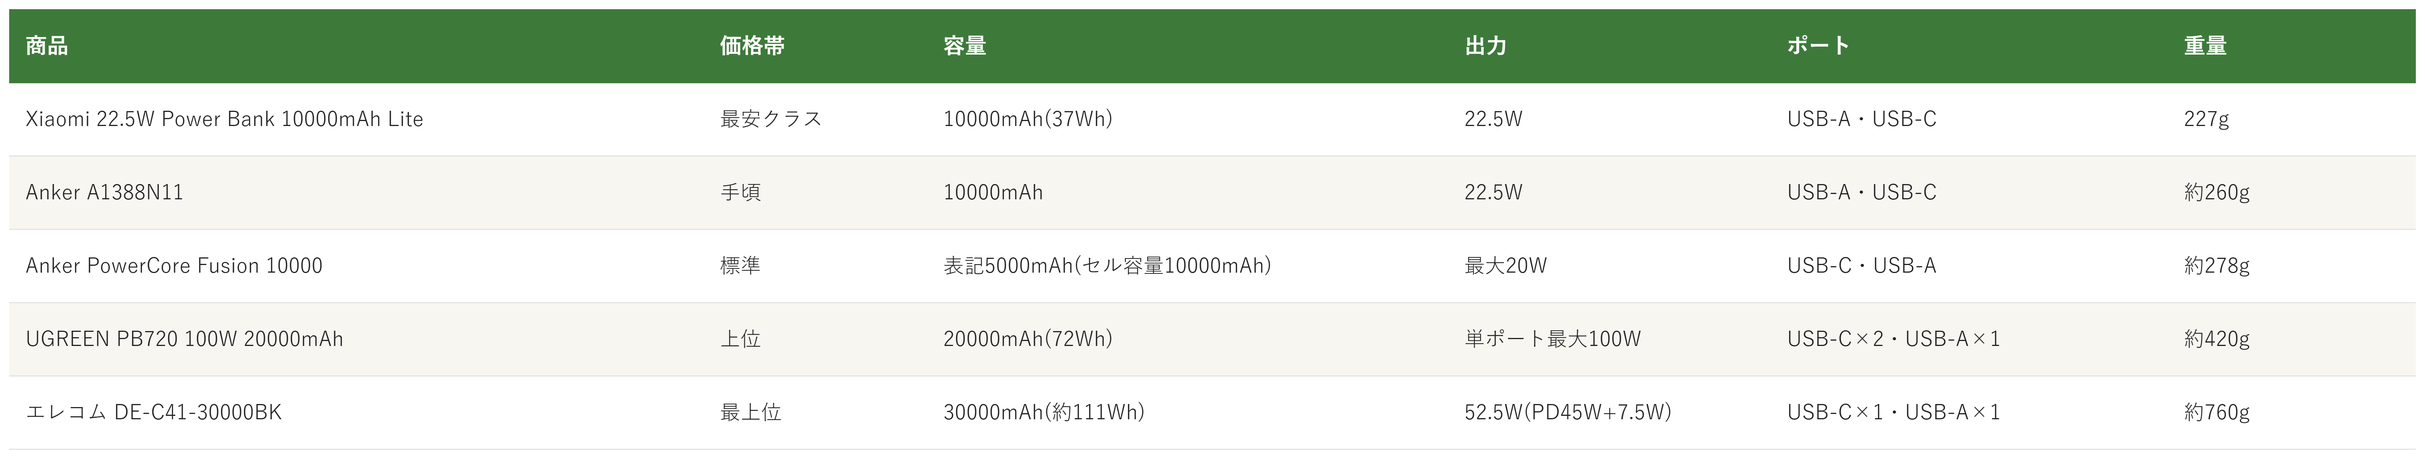
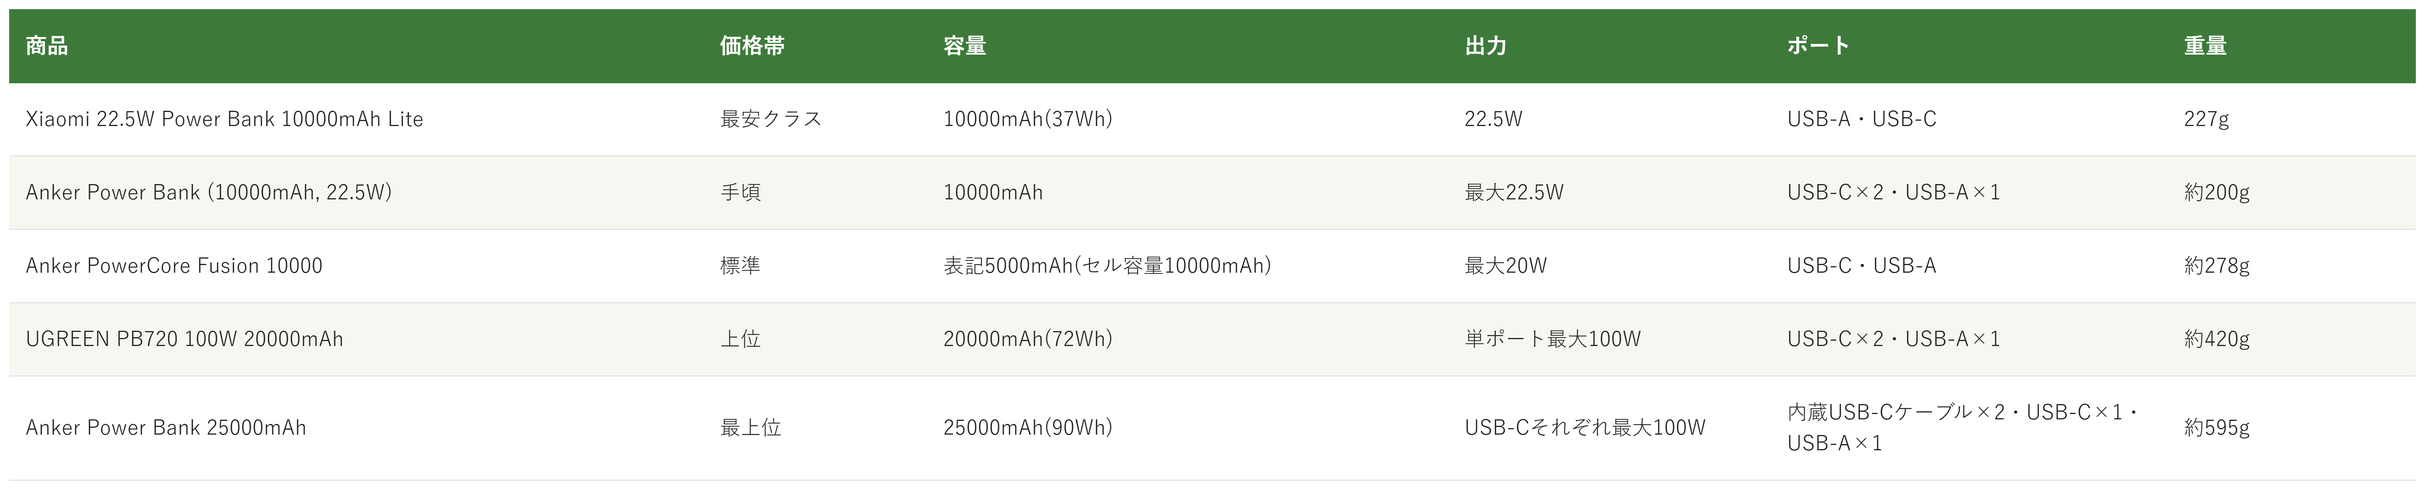
powerbank: swap 02/05 (Anker 10000mAh 22.5W / Anker 25000mAh), fix flight rule per JAL 2026-04

diff --git a/articles/research-powerbank.html b/articles/research-powerbank.html
@@ -328,18 +328,18 @@ a{color:var(--article-link)}
   <span>低評価レビューも確認済み</span>
 </div>
 
-<nav id="purpose-picks" class="purpose-nav" aria-label="目的別の商品目次"><div class="purpose-heading"><h2>目的から選ぶ</h2><span>気になる商品へ、そのまま移動</span></div><div class="purpose-links"><a href="#yasusa"><span class="purpose-number">01</span><strong>安さ重視</strong><span class="purpose-product">Xiaomi 22.5W Power Bank</span><span class="purpose-arrow" aria-hidden="true">↗</span></a><a href="#teiban"><span class="purpose-number">02</span><strong>定番の安心感</strong><span class="purpose-product">Anker A1388N11</span><span class="purpose-arrow" aria-hidden="true">↗</span></a><a href="#karusa"><span class="purpose-number">03</span><strong>コンセント一体型重視</strong><span class="purpose-product">Anker PowerCore Fusion 10000</span><span class="purpose-arrow" aria-hidden="true">↗</span></a><a href="#notepc"><span class="purpose-number">04</span><strong>ノートPC充電</strong><span class="purpose-product">UGREEN PB720 100W 20000mAh</span><span class="purpose-arrow" aria-hidden="true">↗</span></a><a href="#dairyou"><span class="purpose-number">05</span><strong>大容量重視</strong><span class="purpose-product">エレコム DE-C41-30000BK</span><span class="purpose-arrow" aria-hidden="true">↗</span></a></div></nav>
+<nav id="purpose-picks" class="purpose-nav" aria-label="目的別の商品目次"><div class="purpose-heading"><h2>目的から選ぶ</h2><span>気になる商品へ、そのまま移動</span></div><div class="purpose-links"><a href="#yasusa"><span class="purpose-number">01</span><strong>安さ重視</strong><span class="purpose-product">Xiaomi 22.5W Power Bank</span><span class="purpose-arrow" aria-hidden="true">↗</span></a><a href="#teiban"><span class="purpose-number">02</span><strong>定番の安心感</strong><span class="purpose-product">Anker Power Bank (10000mAh, 22.5W)</span><span class="purpose-arrow" aria-hidden="true">↗</span></a><a href="#karusa"><span class="purpose-number">03</span><strong>コンセント一体型重視</strong><span class="purpose-product">Anker PowerCore Fusion 10000</span><span class="purpose-arrow" aria-hidden="true">↗</span></a><a href="#notepc"><span class="purpose-number">04</span><strong>ノートPC充電</strong><span class="purpose-product">UGREEN PB720 100W 20000mAh</span><span class="purpose-arrow" aria-hidden="true">↗</span></a><a href="#dairyou"><span class="purpose-number">05</span><strong>大容量重視</strong><span class="purpose-product">Anker Power Bank 25000mAh</span><span class="purpose-arrow" aria-hidden="true">↗</span></a></div></nav>
 <section class="conclusion-box pick-carousel" id="quick-picks" aria-label="目的別のおすすめ5商品" aria-roledescription="カルーセル"><div class="pick-header"><h2>結論から先に言うと：</h2><p>あなたの使い方に合う、1台を。</p></div><div class="pick-track" tabindex="0" aria-label="商品スライド。左右キーでも切り替えできます"><article class="pick-slide" aria-label="1 / 5：Xiaomi 22.5W Power Bank 10000mAh Lite"><div class="pick-copy"><span class="pick-number">01 / 05</span><p class="pick-reason">安さ重視なら</p><h3>Xiaomi 22.5W Power Bank</h3><a class="pick-detail" href="#yasusa">向き・不向きも詳しく見る ↗</a></div><div class="pick-product"><img src="research-powerbank/01_xiaomi.png" alt="Xiaomi 22.5W Power Bank 10000mAh Lite" loading="lazy"><a class="pick-amazon" href="https://www.amazon.co.jp/dp/B0DJBXGW2X?tag=miitobow-22" target="_blank" rel="noopener sponsored" aria-label="Xiaomi Power BankをAmazonで見る">Amazonで見る <span aria-hidden="true">↗</span></a></div></article>
-<article class="pick-slide" aria-label="2 / 5：Anker A1388N11"><div class="pick-copy"><span class="pick-number">02 / 05</span><p class="pick-reason">定番の安心感なら</p><h3>Anker A1388N11</h3><a class="pick-detail" href="#teiban">向き・不向きも詳しく見る ↗</a></div><div class="pick-product"><img src="research-powerbank/02_anker.jpg" alt="Anker A1388N11" loading="lazy"><a class="pick-amazon" href="https://www.amazon.co.jp/dp/B0CQM6N9RD?tag=miitobow-22" target="_blank" rel="noopener sponsored" aria-label="Anker A1388N11をAmazonで見る">Amazonで見る <span aria-hidden="true">↗</span></a></div></article>
+<article class="pick-slide" aria-label="2 / 5：Anker Power Bank (10000mAh, 22.5W)"><div class="pick-copy"><span class="pick-number">02 / 05</span><p class="pick-reason">定番の安心感なら</p><h3>Anker Power Bank (10000mAh, 22.5W)</h3><a class="pick-detail" href="#teiban">向き・不向きも詳しく見る ↗</a></div><div class="pick-product"><img src="research-powerbank/02_anker.jpg" alt="Anker Power Bank (10000mAh, 22.5W)" loading="lazy"><a class="pick-amazon" href="https://www.amazon.co.jp/dp/B0CQX67KTW?tag=miitobow-22" target="_blank" rel="noopener sponsored" aria-label="Anker Power Bank (10000mAh, 22.5W)をAmazonで見る">Amazonで見る <span aria-hidden="true">↗</span></a></div></article>
 <article class="pick-slide" aria-label="3 / 5：Anker PowerCore Fusion 10000"><div class="pick-copy"><span class="pick-number">03 / 05</span><p class="pick-reason">コンセント一体型重視なら</p><h3>Anker PowerCore Fusion 10000</h3><a class="pick-detail" href="#karusa">向き・不向きも詳しく見る ↗</a></div><div class="pick-product"><img src="research-powerbank/03_anker-fusion10000.jpg" alt="Anker PowerCore Fusion 10000" loading="lazy"><a class="pick-amazon" href="https://www.amazon.co.jp/dp/B08HCVG4FB?tag=miitobow-22" target="_blank" rel="noopener sponsored" aria-label="Anker PowerCore Fusion 10000をAmazonで見る">Amazonで見る <span aria-hidden="true">↗</span></a></div></article>
 <article class="pick-slide" aria-label="4 / 5：UGREEN PB720 100W 20000mAh"><div class="pick-copy"><span class="pick-number">04 / 05</span><p class="pick-reason">ノートPC充電を重視するなら</p><h3>UGREEN PB720 100W 20000mAh</h3><a class="pick-detail" href="#notepc">向き・不向きも詳しく見る ↗</a></div><div class="pick-product"><img src="research-powerbank/04_ugreen-pb720.jpg" alt="UGREEN 100W モバイルバッテリー 20000mAh PB720" loading="lazy"><a class="pick-amazon" href="https://www.amazon.co.jp/dp/B0C3GTMX5M?tag=miitobow-22" target="_blank" rel="noopener sponsored" aria-label="UGREEN PB720 100W 20000mAhをAmazonで見る">Amazonで見る <span aria-hidden="true">↗</span></a></div></article>
-<article class="pick-slide" aria-label="5 / 5：エレコム DE-C41-30000BK"><div class="pick-copy"><span class="pick-number">05 / 05</span><p class="pick-reason">大容量を重視するなら</p><h3>エレコム DE-C41-30000BK</h3><a class="pick-detail" href="#dairyou">向き・不向きも詳しく見る ↗</a></div><div class="pick-product"><img src="research-powerbank/04_elecom.jpg" alt="エレコム DE-C41-30000BK" loading="lazy"><a class="pick-amazon" href="https://www.amazon.co.jp/dp/B0C619HT62?tag=miitobow-22" target="_blank" rel="noopener sponsored" aria-label="エレコム DE-C41-30000BKをAmazonで見る">Amazonで見る <span aria-hidden="true">↗</span></a></div></article></div><div class="pick-controls" hidden><button type="button" class="pick-prev" aria-label="前の商品">←</button><div class="pick-dots"><button type="button" data-pick="0" aria-label="Xiaomi Power Bankを表示" aria-current="true">01</button><button type="button" data-pick="1" aria-label="Anker A1388N11を表示">02</button><button type="button" data-pick="2" aria-label="Anker PowerCore Fusion 10000を表示">03</button><button type="button" data-pick="3" aria-label="UGREEN PB720 100W 20000mAhを表示">04</button><button type="button" data-pick="4" aria-label="エレコム DE-C41-30000BKを表示">05</button></div><button type="button" class="pick-next" aria-label="次の商品">→</button></div><p class="pick-hint">横にスワイプして、5商品を見比べる</p></section>
+<article class="pick-slide" aria-label="5 / 5：Anker Power Bank 25000mAh"><div class="pick-copy"><span class="pick-number">05 / 05</span><p class="pick-reason">大容量を重視するなら</p><h3>Anker Power Bank 25000mAh</h3><a class="pick-detail" href="#dairyou">向き・不向きも詳しく見る ↗</a></div><div class="pick-product"><img src="research-powerbank/05_anker25000.jpg" alt="Anker Power Bank (25000mAh, 巻取り式USB-Cケーブル内蔵)" loading="lazy"><a class="pick-amazon" href="https://www.amazon.co.jp/dp/B0DT4RGDSJ?tag=miitobow-22" target="_blank" rel="noopener sponsored" aria-label="Anker Power Bank 25000mAhをAmazonで見る">Amazonで見る <span aria-hidden="true">↗</span></a></div></article></div><div class="pick-controls" hidden><button type="button" class="pick-prev" aria-label="前の商品">←</button><div class="pick-dots"><button type="button" data-pick="0" aria-label="Xiaomi Power Bankを表示" aria-current="true">01</button><button type="button" data-pick="1" aria-label="Anker Power Bank (10000mAh, 22.5W)を表示">02</button><button type="button" data-pick="2" aria-label="Anker PowerCore Fusion 10000を表示">03</button><button type="button" data-pick="3" aria-label="UGREEN PB720 100W 20000mAhを表示">04</button><button type="button" data-pick="4" aria-label="Anker Power Bank 25000mAhを表示">05</button></div><button type="button" class="pick-next" aria-label="次の商品">→</button></div><p class="pick-hint">横にスワイプして、5商品を見比べる</p></section>
 
 <h2>選び方の基準は3つ</h2>
 <p>調べてわかったのは、基準はシンプルでした。</p>
 <p>1つ目は「PSEマーク」。モバイルバッテリーは電気用品安全法の対象品目で、表示のない商品は販売そのものが禁止されています。</p>
 <p>2つ目は「出力(W)」。ノートPCまで充電したいなら、45W以上が目安になります。</p>
-<p>3つ目は「Wh(ワットアワー)」。飛行機の国内線では、100Whを超えると事前申告が必要になります。容量(mAh)×電圧÷1000で目安が計算できます。</p>
+<p>3つ目は「Wh(ワットアワー)」。JAL公式の案内（2026年4月24日以降）では、機内に持ち込めるモバイルバッテリーは1名あたり2個まで、160Wh以下のものに限られます。容量(mAh)×電圧÷1000で目安が計算できます。</p>
 <p>価格帯は、かなり幅がありました。</p>
 
 <h2>比較表</h2>
@@ -355,13 +355,13 @@ a{color:var(--article-link)}
     <li>ポート：USB-A・USB-C</li>
     <li>重量：227g</li>
   </ul>
-  <h3>Anker A1388N11</h3>
+  <h3>Anker Power Bank (10000mAh, 22.5W)</h3>
   <ul>
     <li>手頃</li>
     <li>容量：10000mAh</li>
-    <li>出力：22.5W</li>
-    <li>ポート：USB-A・USB-C</li>
-    <li>重量：約260g</li>
+    <li>出力：最大22.5W</li>
+    <li>ポート：USB-C×2・USB-A×1</li>
+    <li>重量：約200g</li>
   </ul>
   <h3>Anker PowerCore Fusion 10000</h3>
   <ul>
@@ -378,13 +378,13 @@ a{color:var(--article-link)}
     <li>ポート：USB-C×2・USB-A×1</li>
     <li>重量：約420g</li>
   </ul>
-  <h3>エレコム DE-C41-30000BK</h3>
+  <h3>Anker Power Bank 25000mAh</h3>
   <ul>
     <li>最上位</li>
-    <li>容量：30000mAh（約111Wh）</li>
-    <li>出力：52.5W（PD45W+7.5W）</li>
-    <li>ポート：USB-C×1・USB-A×1</li>
-    <li>重量：約760g</li>
+    <li>容量：25000mAh（90Wh）</li>
+    <li>出力：USB-Cポートそれぞれ最大100W</li>
+    <li>ポート：内蔵USB-Cケーブル×2・USB-C×1・USB-A×1</li>
+    <li>重量：約595g</li>
   </ul>
 </div>
 
@@ -403,20 +403,20 @@ a{color:var(--article-link)}
 <p class="spec-text">PSE技術基準にも<br>適合しています。</p>
 <a class="buy-link" href="https://www.amazon.co.jp/dp/B0DJBXGW2X?tag=miitobow-22" target="_blank" rel="noopener">Amazonで見る<span class="arrow">→</span></a>
 
-<section class="product-feature" id="teiban" aria-labelledby="teiban-title"><div class="product-stage"><img class="product-img" loading="lazy" src="research-powerbank/02_anker.jpg" alt="Anker A1388N11"><div class="product-overlay"><div class="product-copy"><span class="product-index">POWER BANK / 02</span><h2 class="product-situation" id="teiban-title">大手ブランドの安心感を<br>重視する人へ</h2><div class="product-name-row"><p class="product-name">Anker A1388N11</p><span class="price-badge">手頃</span></div><div class="trust-line"><p>容量は10000mAh、出力は22.5Wです。残量を数字で確認できるデジタル表示付きです。</p><p>価格.comの満足度4.36は5商品で随一の実績です。</p></div><a class="buy-link" href="https://www.amazon.co.jp/dp/B0CQM6N9RD?tag=miitobow-22" target="_blank" rel="noopener">Amazonで見る<span class="arrow">→</span></a></div></div></div><div class="product-details"><div class="fit-box">
-  <div class="col good"><b>向いてる人</b><ul><li>大手ブランドの安心感を重視する人</li><li>残量を数字で知りたい人</li></ul></div>
+<section class="product-feature" id="teiban" aria-labelledby="teiban-title"><div class="product-stage"><img class="product-img" loading="lazy" src="research-powerbank/02_anker.jpg" alt="Anker Power Bank (10000mAh, 22.5W)"><div class="product-overlay"><div class="product-copy"><span class="product-index">POWER BANK / 02</span><h2 class="product-situation" id="teiban-title">大手ブランドの安心感を<br>重視する人へ</h2><div class="product-name-row"><p class="product-name">Anker Power Bank (10000mAh, 22.5W)</p><span class="price-badge">手頃</span></div><div class="trust-line"><p>容量は10000mAh、出力は最大22.5Wです。付属のUSB-Cケーブルはストラップとしても使えます。</p><p>Amazonの評価は4.3、評価件数は7,500件を超えます（調査時点）。</p></div><a class="buy-link" href="https://www.amazon.co.jp/dp/B0CQX67KTW?tag=miitobow-22" target="_blank" rel="noopener">Amazonで見る<span class="arrow">→</span></a></div></div></div><div class="product-details"><div class="fit-box">
+  <div class="col good"><b>向いてる人</b><ul><li>大手ブランドの安心感を重視する人</li><li>ケーブルを別に持ち歩きたくない人</li></ul></div>
   <div class="col bad"><b>向いてない人</b><ul><li>ノートPCまで充電したい人</li></ul></div>
 </div>
 <p class="conclusion-line"><span class="decision-label">選ぶ決め手</span><span class="decision-text">定番の安心感を重視するなら、この1台です。</span></p></div></section>
 <div class="review-voice">
   <b>低評価レビューも見ました</b>
-  10000mAhでは実質1〜2回分の充電が限界でスマホ90%までの充電に時間がかかるという指摘や、フル充電に3時間以上かかり充電中に発熱するという声があります。約260gは想像より重くバッグでかさばるという声もありました。
-  <p class="src">参考：<a href="https://review.kakaku.com/review/K0001639348/" target="_blank" rel="noopener">価格.com Anker A1388N11レビュー</a></p>
+  Amazonのレビューでは、表面にすぐ傷がついてしまったという声や、充電速度は遅いと感じるという声がありました（寝ている間に充電すれば気にならないという意見もあります）。表示されたレビューの範囲では、目立った低評価の指摘は多くありませんでした。
+  <p class="src">参考：Amazonカスタマーレビューを基にした集約</p>
 </div>
-<p class="spec-text">Anker A1388N11は、<br>大手ブランドの安心感を<br>求める人に最も向く1台です。</p>
-<p class="spec-text">容量は10000mAh、<br>出力は22.5Wです。<br>残量を数字で確認できるデジタル表示付きです。</p>
-<p class="spec-text">重さは約260g、<br>USB-AとUSB-Cを<br>1口ずつ備えています。</p>
-<a class="buy-link" href="https://www.amazon.co.jp/dp/B0CQM6N9RD?tag=miitobow-22" target="_blank" rel="noopener">Amazonで見る<span class="arrow">→</span></a>
+<p class="spec-text">Anker Power Bank<br>(10000mAh, 22.5W)は、<br>大手ブランドの安心感を求める人に最も向く1台です。</p>
+<p class="spec-text">容量は10000mAh、<br>出力は最大22.5Wです。<br>USB-Cを2口、USB-Aを1口備え、3台まで同時に充電できます。</p>
+<p class="spec-text">重さは約200g、<br>厚さ約16mmの薄型です。<br>付属のUSB-Cケーブルはストラップとして使えます。</p>
+<a class="buy-link" href="https://www.amazon.co.jp/dp/B0CQX67KTW?tag=miitobow-22" target="_blank" rel="noopener">Amazonで見る<span class="arrow">→</span></a>
 
 <section class="product-feature lifestyle-feature" id="karusa" aria-labelledby="karusa-title"><div class="product-stage"><img class="product-img" loading="lazy" src="research-powerbank/03_anker-fusion10000.jpg" alt="Anker PowerCore Fusion 10000"><div class="product-overlay"><div class="product-copy"><span class="product-index">POWER BANK / 03</span><h2 class="product-situation" id="karusa-title">コンセントと<br>モバイルバッテリーを1台にしたい人へ</h2><div class="product-name-row"><p class="product-name">Anker PowerCore Fusion 10000</p><span class="price-badge">標準</span></div><div class="trust-line"><p>本体には5000mAhと表記されていますが、セル容量は10000mAh（5000mAh×2）です。コンセントに挿せば自宅の充電器として、外ではモバイルバッテリーとして1台2役で使えます。</p><p>重量は約278g、USB-C最大20W出力でスマホを急速充電できます。本体の充電はコンセントに挿すだけで、ケーブル不要です。</p></div><a class="buy-link" href="https://www.amazon.co.jp/dp/B08HCVG4FB?tag=miitobow-22" target="_blank" rel="noopener">Amazonで見る<span class="arrow">→</span></a></div></div></div><div class="product-details"><div class="fit-box">
   <div class="col good"><b>向いてる人</b><ul><li>荷物を減らしたい人</li><li>コンセントの有無で使い分けたい人</li></ul></div>
@@ -449,21 +449,21 @@ a{color:var(--article-link)}
 <p class="spec-text">USB-Cの単ポート使用時は最大100W、<br>複数ポート同時使用時は最大65Wです。<br>重さはAmazon商品ページの表記で約420gです。</p>
 <a class="buy-link" href="https://www.amazon.co.jp/dp/B0C3GTMX5M?tag=miitobow-22" target="_blank" rel="noopener">Amazonで見る<span class="arrow">→</span></a>
 
-<section class="product-feature" id="dairyou" aria-labelledby="dairyou-title"><div class="product-stage"><img class="product-img" loading="lazy" src="research-powerbank/04_elecom.jpg" alt="エレコム DE-C41-30000BK"><div class="product-overlay"><div class="product-copy"><span class="product-index">POWER BANK / 05</span><h2 class="product-situation" id="dairyou-title">数日の出張・旅行など、<br>長期間の外出先で使いたい人へ</h2><div class="product-name-row"><p class="product-name">エレコム DE-C41-30000BK</p><span class="price-badge">最上位</span></div><div class="trust-line"><p>出力は52.5W、重さは約760gです。素材はリン酸鉄リチウムで、生活防水・防塵のIP44相当です。</p><p>目安で約111Wh、100Whを超えるため、飛行機の国内線では事前申告が必要な容量帯にあたります。</p></div><a class="buy-link" href="https://www.amazon.co.jp/dp/B0C619HT62?tag=miitobow-22" target="_blank" rel="noopener">Amazonで見る<span class="arrow">→</span></a></div></div></div><div class="product-details"><div class="fit-box">
+<section class="product-feature" id="dairyou" aria-labelledby="dairyou-title"><div class="product-stage"><img class="product-img" loading="lazy" src="research-powerbank/05_anker25000.jpg" alt="Anker Power Bank (25000mAh, 巻取り式USB-Cケーブル内蔵)"><div class="product-overlay"><div class="product-copy"><span class="product-index">POWER BANK / 05</span><h2 class="product-situation" id="dairyou-title">数日の出張・旅行など、<br>長期間の外出先で使いたい人へ</h2><div class="product-name-row"><p class="product-name">Anker Power Bank (25000mAh, 巻取り式USB-Cケーブル内蔵)</p><span class="price-badge">最上位</span></div><div class="trust-line"><p>容量は25000mAh、Amazon商品ページの表記で90Whです。3つのUSB-Cポートそれぞれで最大100Wの出力が可能で、重さは約595gです。</p><p>90Whは160Wh以下です。JAL公式の案内（2026年4月24日以降）では、機内持ち込みは1名あたり2個まで（160Wh以下に限る）です。</p></div><a class="buy-link" href="https://www.amazon.co.jp/dp/B0DT4RGDSJ?tag=miitobow-22" target="_blank" rel="noopener">Amazonで見る<span class="arrow">→</span></a></div></div></div><div class="product-details"><div class="fit-box">
   <div class="col good"><b>向いてる人</b><ul><li>数日の出張・旅行など、長期間の外出先で使いたい人</li></ul></div>
-  <div class="col bad"><b>向いてない人</b><ul><li>身軽に持ち歩きたい人や、飛行機での移動が多い人</li></ul></div>
+  <div class="col bad"><b>向いてない人</b><ul><li>ポケットに入れて身軽に持ち歩きたい人</li></ul></div>
 </div>
 <p class="conclusion-line"><span class="decision-label">選ぶ決め手</span><span class="decision-text">大容量を重視するなら、この1台です。</span></p></div></section>
 <div class="review-voice">
   <b>低評価レビューも見ました</b>
-  「思ってたよりずしりと重い」「大きく重たい」という口コミが複数あります。充電ポートが2系統2か所だけで不便という指摘もありました。リン酸鉄リチウムで安全性重視の分、値段が高く大きく重いという位置づけです。
-  <p class="src">参考：レビューまとめサイトを基にした集約</p>
+  Amazonのレビューでは、約595gは重く、カバンに入れるとしんどいという声があります。購入から10〜11か月で巻取り式ケーブルから充電できなくなったという星3のレビューもありました。大容量の分、20W程度の充電器では本体の充電に時間がかかるという声も見られます。
+  <p class="src">参考：Amazonカスタマーレビューを基にした集約</p>
 </div>
-<p class="spec-text">エレコムDE-C41-30000BKは、<br>数日の出張・旅行など<br>長期間の外出先で使いたい人に最も向く1台です。</p>
-<p class="spec-text">出力は52.5W、<br>重さは約760gです。<br>素材はリン酸鉄リチウムです。</p>
-<p class="spec-text">生活防水・防塵のIP44相当です。<br>保証は1年間です。<br>目安で約111Whです。</p>
-<p class="spec-text">100Whを超えるため、<br>飛行機の国内線では事前申告が<br>必要な容量帯にあたります。禁止ではありませんが、搭乗前に航空会社への確認が必要です。</p>
-<a class="buy-link" href="https://www.amazon.co.jp/dp/B0C619HT62?tag=miitobow-22" target="_blank" rel="noopener">Amazonで見る<span class="arrow">→</span></a>
+<p class="spec-text">Anker Power Bank<br>(25000mAh, 巻取り式USB-Cケーブル内蔵)は、<br>数日の出張・旅行など長期間の外出先で使いたい人に最も向く1台です。</p>
+<p class="spec-text">容量は25000mAh、<br>Amazon商品ページの表記で90Whです。<br>重さは約595gです。</p>
+<p class="spec-text">3つのUSB-Cポートそれぞれで<br>最大100Wの出力が可能です。<br>巻取り式と一体型のUSB-Cケーブル2本を内蔵し、USB-A / USB-Cポートも1つずつあります。</p>
+<p class="spec-text">90Whは160Wh以下です。JAL公式の案内（2026年4月24日以降）では、<br>機内に持ち込めるモバイルバッテリーは1名あたり2個まで（160Wh以下に限る）です。<br>機内でのバッテリー本体への充電と、バッテリーから機器への充電はできません。</p>
+<a class="buy-link" href="https://www.amazon.co.jp/dp/B0DT4RGDSJ?tag=miitobow-22" target="_blank" rel="noopener">Amazonで見る<span class="arrow">→</span></a>
 
 <details class="research-method"><summary>13候補をどう絞った？ 調査の経緯を見る</summary><div class="research-content"><p>外出先でスマホの充電が切れそうになって、私も何度か焦りました。</p>
 <p>ノートPCまで充電できるのか、容量はどれくらい必要なのか。種類が多すぎて迷います。なので今回、価格.comとマイベストを中心に、各社公式サイトとサクラチェッカーも確認しました。</p>
@@ -476,9 +476,10 @@ a{color:var(--article-link)}
 <p>エレコムEC-C05WFは、Ankerと同じ定番ブランドの枠で重複するうえ、詳しいスペックを公式ページで確認できなかったため見送りました。</p>
 <p>Anker 737は、採用したUGREEN PB720と同じノートPC充電対応の枠で重複し、価格が本記事の価格帯を大きく超えるため見送りました。</p>
 <p>UGREEN PB512とエレコムEC-C44LBKは、採用したUGREEN PB720と出力・容量帯が近く重複するため見送りました。</p>
-<p>UGREEN PB552は、エレコムと同じ大容量の枠で重複するうえ、165Wという出力は在宅ワーク用途には過剰と判断しました。</p>
+<p>UGREEN PB552は、採用した大容量枠と重複するうえ、165Wという出力は在宅ワーク用途には過剰と判断しました。</p>
 <p>※2026-10-02追記：公開後の在庫確認で、03枠のオウルテック OWL-LPBAC5003（コンセント一体型・5000mAh）が在庫切れになっていました。同ブランドの同系列商品（白・黒・旧モデル含む）もすべて在庫切れで、コンセント一体型かつ軽量という条件に合う在庫あり商品が見当たらなかったため、02枠と同じAnkerブランドにはなりますが、同じ「コンセント一体型」の核心機能を持つAnker PowerCore Fusion 10000に差し替えました。容量は5000mAh→10000mAh（セル容量）、出力は45W→最大20Wに変わるため、枠のテーマも「軽量重視」から「コンセント一体型重視」に変更しています。</p>
 <p>※2026-10-22追記：公開後の在庫確認で、04枠のCIO SMARTCOBY TRIO（ASIN B0GMWZ9MWK・20000mAh・67W）が在庫切れ（再入荷予定なし）になっていました。同じ用途の「ノートPCも充電できる高出力・大容量」で在庫のある商品として、UGREEN PB720（ASIN B0C3GTMX5M・20000mAh・72Wh・単ポート最大100W）に差し替えました。CIOの同シリーズにも65Wモデル（20000mAh）が買える状態でしたが、Amazonの評価が3.2と低く、初期不良の報告が複数見られたため見送りました。UGREEN PB720は、容量と端子構成はほぼ同じで、出力が67Wから100Wに上がる一方、重さは333gから約420gに増えています。差し替え先は公開後に追加で確認した商品のため、上の13候補には含めていません。</p>
+<p>※2026-10-22追記：公開後の在庫確認で、02枠のAnker A1388N11（ASIN B0CQM6N9RD・10000mAh・22.5W）と05枠のエレコム DE-C41-30000BK（ASIN B0C619HT62・30000mAh）が、Amazonでカート・購入ボタンが表示されない状態になっていました。02枠は同じ「定番ブランドの安心感」枠で、購入できるAnker Power Bank (10000mAh, 22.5W)（ASIN B0CQX67KTW）に差し替えました。容量・出力は同じで、重さは約260gから約200gに軽くなり、Amazonでの評価は4.3（7,500件超）です。05枠は同じ「大容量」枠で、Anker Power Bank (25000mAh, 巻取り式USB-Cケーブル内蔵)（ASIN B0DT4RGDSJ・25000mAh・90Wh・約595g）に差し替えました。容量は30000mAhから25000mAhに減り、100Whを超えなくなったため、飛行機の記述も合わせて書き直しています。差し替え先の2商品は公開後に追加で確認した商品のため、上の13候補には含めていません。また、飛行機の持ち込みに関する本文・FAQの記述を、出典のJAL公式案内（2026年4月24日以降）の内容に合わせて修正しました。</p>
 <p>エレコムDE-C87-20000BKとCIO Pro PLUGⅡ、MOTTERUは、採用した5商品と容量・出力帯が近く重複するため見送りました。</p>
 
 <h2>低評価の2商品も見ました</h2>
@@ -496,15 +497,15 @@ a{color:var(--article-link)}
 <p>サクラチェッカーを調べていた時も発見がありました。このカテゴリのサクラ製品比率64〜67%は、決して低くない数字です。相場より不自然に安い商品には、注意が必要だと実感しました。</p>
 
 <h2>迷ったらこれ</h2>
-<img class="product-img" src="research-powerbank/02_anker.jpg" alt="Anker A1388N11">
-<p>ここまで読んでまだ迷ったら、Anker A1388N11がいちばん外しにくい1台です。</p>
-<p>大手ブランドの安心感と、価格.comの高い満足度を両方満たしています。</p>
-<a class="buy-link" href="https://www.amazon.co.jp/dp/B0CQM6N9RD?tag=miitobow-22" target="_blank" rel="noopener">Amazonで見る<span class="arrow">→</span></a>
+<img class="product-img" src="research-powerbank/02_anker.jpg" alt="Anker Power Bank (10000mAh, 22.5W)">
+<p>ここまで読んでまだ迷ったら、Anker Power Bank (10000mAh, 22.5W)がいちばん外しにくい1台です。</p>
+<p>大手ブランドの安心感と、Amazonでの評価件数の多さ（調査時点で7,500件超・評価4.3）を両方満たしています。</p>
+<a class="buy-link" href="https://www.amazon.co.jp/dp/B0CQX67KTW?tag=miitobow-22" target="_blank" rel="noopener">Amazonで見る<span class="arrow">→</span></a>
 
 <h2>よくある質問</h2>
 <div class="faq-item"><p>Q. モバイルバッテリーは何を基準に選べばいい？<br>A. まず「PSEマーク」の有無を確認し、次に「出力(W)」と「容量」を用途に合わせて選ぶのがおすすめです。</p></div>
 <div class="faq-item"><p>Q. ノートPCも充電できますか？<br>A. 今回の5商品では、UGREEN PB720が単ポート最大100Wの高出力でノートPC充電に対応していました。</p></div>
-<div class="faq-item"><p>Q. 飛行機に持ち込めますか？<br>A. Wh(ワットアワー)が100Wh以下なら個数制限なし、100Wh超〜160Wh以下は事前申告で2個まで、160Wh超は持ち込みできません。</p></div>
+<div class="faq-item"><p>Q. 飛行機に持ち込めますか？<br>A. JAL公式の案内（2026年4月24日以降）では、機内に持ち込めるモバイルバッテリーは1名あたり2個まで、160Wh以下のものに限られます。預け入れ手荷物に入れることは禁止で、機内でのバッテリー本体への充電と、バッテリーから機器への充電もできません。JALは、2027年1月以降は100Whに制限される可能性があるとも案内しています。他の航空会社は規定が異なる場合があるため、搭乗前にご利用の航空会社でご確認ください。</p></div>
 <div class="faq-item"><p>Q. どれくらいの容量があれば足りる？<br>A. スマホの充電が目的なら10000mAh前後、ノートPCも含めるなら20000mAh以上が今回の調査での目安でした。</p></div>
 
 <h2>こんな記事も書いてます</h2>
@@ -523,9 +524,9 @@ a{color:var(--article-link)}
   <li>価格.com モバイルバッテリー満足度ランキング：<a href="https://kakaku.com/kaden/mobile-battery/ranking_3114/rating/" target="_blank" rel="noopener">kakaku.com</a></li>
   <li>マイベスト ノートPC用モバイルバッテリー比較：<a href="https://my-best.com/5827" target="_blank" rel="noopener">my-best.com</a></li>
   <li>Xiaomi公式 22.5W Power Bank 10000mAh Lite：<a href="https://www.mi.com/jp/product/xiaomi-power-bank-10000mah-22w-lite/" target="_blank" rel="noopener">mi.com</a></li>
-  <li>価格.com Anker A1388N11レビュー：<a href="https://review.kakaku.com/review/K0001639348/" target="_blank" rel="noopener">review.kakaku.com</a></li>
+  <li>Amazon.co.jp Anker Power Bank (10000mAh, 22.5W) 商品ページ：<a href="https://www.amazon.co.jp/dp/B0CQX67KTW?tag=miitobow-22" target="_blank" rel="noopener">amazon.co.jp</a></li>
   <li>Amazon.co.jp UGREEN 100W モバイルバッテリー 20000mAh（PB720）商品ページ：<a href="https://www.amazon.co.jp/dp/B0C3GTMX5M?tag=miitobow-22" target="_blank" rel="noopener">amazon.co.jp</a></li>
-  <li>エレコム公式 DE-C41-30000BK：<a href="https://www.elecom.co.jp/products/DE-C41-30000BK.html" target="_blank" rel="noopener">elecom.co.jp</a></li>
+  <li>Amazon.co.jp Anker Power Bank (25000mAh, 巻取り式USB-Cケーブル内蔵) 商品ページ：<a href="https://www.amazon.co.jp/dp/B0DT4RGDSJ?tag=miitobow-22" target="_blank" rel="noopener">amazon.co.jp</a></li>
   <li>Anker公式 PowerCore Fusion 10000：<a href="https://www.ankerjapan.com/products/a1623" target="_blank" rel="noopener">ankerjapan.com</a></li>
   <li>経済産業省 電気用品安全法トピックス：<a href="https://www.meti.go.jp/policy/consumer/seian/denan/topics.html" target="_blank" rel="noopener">meti.go.jp</a></li>
   <li>JAL公式 モバイルバッテリー機内持ち込みルール：<a href="https://www.jal.co.jp/jp/ja/info/2026/other/260330/" target="_blank" rel="noopener">jal.co.jp</a></li>
